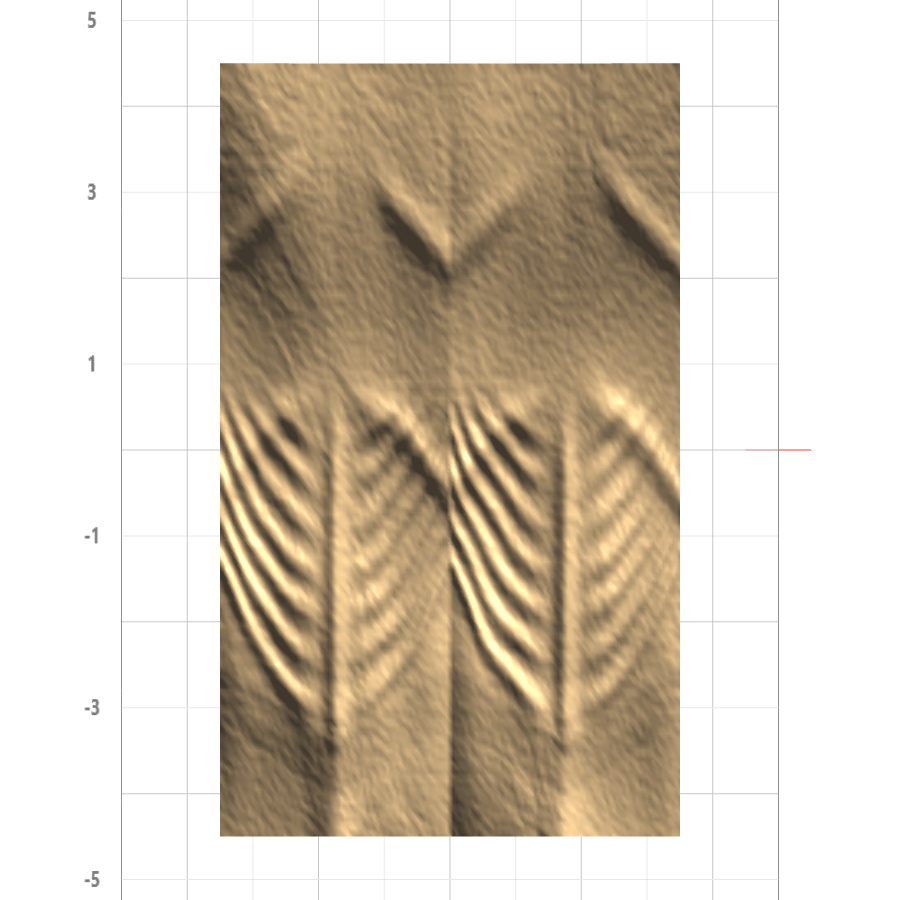
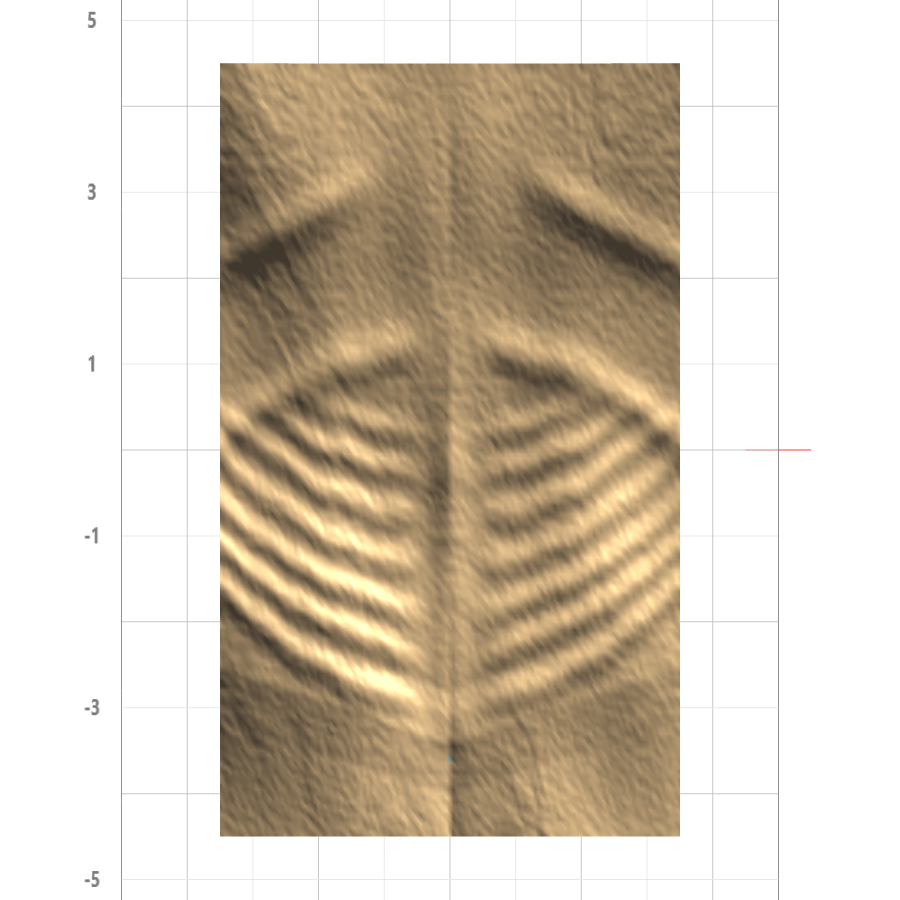
T78 item 7 AMEND: fix mirror-fold double-torso bug, reshuffle skeleton per seed
URGENT correction from Fred (via the advisor, with photo evidence of the
bug): the board's default symmetry is 'x', so terrain.js ALREADY folds the
surface coordinate before calling ANY filter's own fn() -- su arrives
pre-folded to |u-0.5|*2 (0 at the board centreline, 1 at the edge). The
shipped item-7 version re-folded that same value again (dx = |su*2-1|),
putting the sternum at su=0.5 (a fold-of-a-fold) and doubling the whole
ribcage into a mirrored pair INSIDE what was already one half of the
board -- terrain.js's own outer mirror then doubled THAT again, rendering
FOUR repeats (two sternum lines, two rib fans, two clavicle V's) instead
of one torso. Fixed by building only the half-torso terrain.js expects:
dx = su directly, no internal re-fold. Verified under the default Mirror X
symmetry: one clean, symmetric ribcage now.

Also incorporates two more rounds of Fred's own direction, live during
this fix:

1. "I want the structure to reshuffle" -- "angle of ribs, size, extent",
   then "for ribs a number of ribs too", then "clavicular same size,
   extent, angle": the skeleton was near-fully deterministic across seeds
   (only fine skin texture varied), which isn't how a filter that's meant
   to reroll should behave. New per-seed structural draws (hashInt/
   seedRandom, the same integer-bit-mixing technique craterField.js
   already uses for Moon/Mars, duplicated here) now vary: rib count
   (6-9), rib angle, rib size (spacing), rib lateral extent, ribcage start
[…]

Changed region(s): [[0.2178, 0.1556, 0.7778, 0.9333]]

diff --git a/bspline-frame-builder/b-spline-gen/html/core/noise/chest.js b/bspline-frame-builder/b-spline-gen/html/core/noise/chest.js
@@ -23,18 +23,36 @@
  * This file implements direction #3 only -- the muscle-mound version
  * (direction #1) never shipped.
  *
- * Local coordinates (same convention the old file used):
- *   dx = |su*2 - 1|  -- 0 at the sternum centreline, 1 at the torso edge
- *   dy = sv          -- 0 at the neck/top, 1 at the waist/bottom
+ * URGENT AMEND (Fred, via the advisor): the board's default symmetry is
+ * 'x' (core/state.js), which means terrain.js ALREADY folds the surface
+ * coordinate before calling ANY filter's own fn() -- `su` arrives pre-
+ * folded to `|u - 0.5| * 2`, i.e. `su` already IS "distance from the
+ * board centreline, 0..1" by the time this file ever sees it. A first
+ * version of this file re-folded that same value again (`dx = |su*2-1|`),
+ * which put the sternum at su=0.5 (a fold-of-a-fold) instead of su=0, and
+ * doubled the whole ribcage into a mirrored pair INSIDE what was already
+ * one half of the board -- terrain.js's own outer mirror then doubled
+ * THAT again, so the rendered board showed four repeats, not one torso.
+ * This file now builds only the HALF-TORSO terrain.js expects: `dx = su`
+ * directly (0 at the sternum, 1 at the flank) -- no internal fold at all.
+ * A different noiseType/board with symmetry:'none' would see this exact
+ * same half-torso un-mirrored (by design -- this file draws only ITS OWN
+ * half regardless of what the board does with it afterwards).
+ *
+ * Local coordinates:
+ *   dx = su  -- 0 at the sternum centreline, 1 at the torso edge/flank
+ *   dy = sv  -- 0 at the neck/top, 1 at the waist/bottom
  *
  * Composition (skeleton -> skin):
  *   1. Silhouette   — neck, clavicles, deltoids (structural shape only,
  *                     not muscle mass).
  *   2. Sternum ridge — a raised centreline strip, tapering to the xiphoid.
- *   3. Ribcage       — 7 curved raised bands sweeping down-and-out from
- *                      the sternum, strongest at the flanks, fading to
- *                      near-zero at the centre; intercostal grooves are
- *                      the natural gaps between adjacent bands.
+ *   3. Ribcage       — 6-9 curved raised bands (count varies per seed)
+ *                      sweeping down-and-out from the sternum, strongest
+ *                      at the flanks, fading to near-zero at the centre;
+ *                      intercostal grooves are the natural gaps between
+ *                      adjacent bands. Angle, spacing, and lateral reach
+ *                      also vary per seed (see the T78 AMEND note below).
  *   4. Costal margin — one more prominent arc (curving the OPPOSITE way
  *                      from the ribs -- upward toward the sides) marking
  *                      where the ribcage ends.
@@ -65,19 +83,28 @@ function gaussianBand(d, width) {
   return Math.exp(-(d * d) / (2 * width * width));
 }
 
-const NUM_RIBS = 7;
-const RIB_START_Y = 0.16; // just below the clavicles
-const RIB_SPACING = 0.058;
-// T78 tuning: a first attempt used RIB_BAND_WIDTH:0.028 against this same
-// spacing -- a gaussian's own visually-significant extent runs several
-// widths, so adjacent ribs' bands overlapped enough to merge into one
-// solid mound with no visible grooves at all (confirmed with a direct
-// grayscale heightmap dump, not by eyeballing a lit 3D render, which
-// hid the problem under shading). Narrowed well below half the spacing
-// so each rib reads as a separate raised band with a real intercostal
-// groove between it and its neighbors.
-const RIB_BAND_WIDTH = 0.014;
-const RIB_CURVE = 0.20; // ribs slope DOWNWARD as they sweep toward the flank
+// T78 AMEND (Fred: "I want the structure to reshuffle" -- "angle of ribs,
+// size, extent"): the skeleton was near-fully deterministic across seeds
+// (only fine skin texture varied), which is wrong for a filter that's
+// meant to reroll like every other one. `hashInt`/`seedRandom` (the same
+// integer-bit-mixing technique craterField.js already uses for Moon/Mars,
+// duplicated here rather than shared since chest.js has no natural import
+// relationship with that file) derive a few per-seed structural draws from
+// the caller's own already-seeded `noiseFine`, so the SKELETON itself
+// (not just its surface grain) now varies with the terrain's own seed:
+// rib angle (how steeply they sweep down toward the flank), rib size
+// (spacing between adjacent ribs, i.e. how "long" the ribcage reads), and
+// rib extent (how many ribs / how far down the torso the ribcage runs).
+function hashInt(x) {
+  x = Math.imul(x ^ (x >>> 16), 0x45d9f3b);
+  x = Math.imul(x ^ (x >>> 16), 0x45d9f3b);
+  x = x ^ (x >>> 16);
+  return x >>> 0;
+}
+function seedRandom(noiseFine, salt) {
+  const f = noiseFine.noise2(0.5173 + salt * 3.71, 0.7291 + salt * 5.13);
+  return hashInt(Math.floor((f * 0.5 + 0.5) * 0xffffffff) | 0) / 4294967296;
+}
 
 export const fn = (su, sv, aspect, params, noiseRefs) => {
   const { scale, octaves, roughness, warpIntensity } = params;
@@ -88,12 +115,33 @@ export const fn = (su, sv, aspect, params, noiseRefs) => {
   const ribStrength = t.ribStrength ?? 0.14;
   const skinDetail = t.skinDetail ?? 0.06;
 
-  const dx = Math.abs(su * 2 - 1); // 0 at sternum centreline, 1 at torso edge
+  // T78 AMEND (Fred: "I want the structure to reshuffle" -- rib angle/
+  // size/extent/count, then "clavicular same size, extent, angle"): per-
+  // seed structural draws, NOT tweaks (they're not user-facing controls,
+  // just what makes the skeleton itself vary with the terrain's own seed
+  // instead of only its surface texture).
+  const ribCount = 6 + Math.floor(seedRandom(noiseFine, 1) * 4); // 6..9 ribs
+  // Angle allows the OPPOSITE sign too (Fred) -- some seeds curve the ribs
+  // UP toward the flank instead of down, not just varying how steeply they
+  // slope in the one anatomically-typical direction.
+  const ribAngle = -0.22 + seedRandom(noiseFine, 2) * 0.44; // -0.22..0.22, sign varies per seed
+  const ribSize = 0.045 + seedRandom(noiseFine, 3) * 0.030; // spacing between ribs (also scales each rib's own band width)
+  const ribBandWidth = ribSize * 0.26; // stays well under half the spacing (see the T78 tuning note below) regardless of ribSize
+  const ribExtent = 0.24 + seedRandom(noiseFine, 4) * 0.26; // how far laterally ribs must reach before hitting full strength -- smaller = ribs cover MORE of the flank
+  const ribStartY = 0.14 + seedRandom(noiseFine, 5) * 0.05; // where the ribcage begins, just below the clavicles
+
+  const clavicleAngle = -0.10 + seedRandom(noiseFine, 6) * 0.20; // slope from neck to shoulder -- sign varies per seed too
+  const clavicleSize = 10.0 + seedRandom(noiseFine, 7) * 8.0; // band sharpness -- LOWER reads as a bigger/thicker clavicle
+  const clavicleExtent = 1.0 + seedRandom(noiseFine, 8) * 1.2; // lateral decay rate -- LOWER reaches further toward the shoulder
+
+  // su arrives already fold-mirrored by terrain.js (default symmetry:'x'):
+  // 0 at the board centreline, 1 at the board edge. No internal re-fold.
+  const dx = su; // 0 at sternum centreline, 1 at torso edge/flank
   const dy = sv; // 0 at neck, 1 at waist
 
   // ── 1. SILHOUETTE (structural shape, not muscle) ────────────────────
   const neck = Math.exp(-(dx * dx) * 40.0) * Math.max(0, 1.0 - dy * 7.0) * 0.30;
-  const clavicle = Math.max(0, 1.0 - Math.abs(dy - (0.12 + dx * 0.10)) * 14.0) * Math.exp(-dx * 1.5) * 0.18;
+  const clavicle = Math.max(0, 1.0 - Math.abs(dy - (0.12 + dx * clavicleAngle)) * clavicleSize) * Math.exp(-dx * clavicleExtent) * 0.18;
   const deltoid = gaussianBand(dx - 0.9, 0.18) * gaussianBand(dy - 0.22, 0.14) * 0.30;
 
   // ── 2. STERNUM RIDGE + XIPHOID ──────────────────────────────────────
@@ -109,12 +157,12 @@ export const fn = (su, sv, aspect, params, noiseRefs) => {
   // -- ribFrontFade suppresses the whole ribcage near the centreline
   // (per the reference: "fading toward the front") and the sternum ridge
   // covers that same region instead.
-  const ribFrontFade = smoothstep01(0.06, 0.38, dx);
+  const ribFrontFade = smoothstep01(0.06, ribExtent, dx);
   const ribJitter = noiseFine.noise2(su * 6.0, sv * 6.0) * 0.012; // organic irregularity, not a perfect arc
   let ribcage = 0;
-  for (let k = 0; k < NUM_RIBS; k++) {
-    const ribY = RIB_START_Y + k * RIB_SPACING + RIB_CURVE * dx * dx + ribJitter;
-    ribcage += gaussianBand(dy - ribY, RIB_BAND_WIDTH);
+  for (let k = 0; k < ribCount; k++) {
+    const ribY = ribStartY + k * ribSize + ribAngle * dx * dx + ribJitter;
+    ribcage += gaussianBand(dy - ribY, ribBandWidth);
   }
   // Ribs fade out again near the very bottom of the ribcage span (the
   // costal margin below takes over there instead of another plain rib).
@@ -125,7 +173,7 @@ export const fn = (su, sv, aspect, params, noiseRefs) => {
   // One more prominent band curving the OPPOSITE way from the ribs above
   // it (upward toward the flanks), marking the classic inverted-V where
   // the ribcage ends and the abdomen begins.
-  const marginBaseY = RIB_START_Y + NUM_RIBS * RIB_SPACING;
+  const marginBaseY = ribStartY + ribCount * ribSize;
   const marginY = marginBaseY - 0.12 * dx * dx + ribJitter;
   const costalMargin = gaussianBand(dy - marginY, 0.020) * ribFrontFade * ribStrength * 1.25;
 

diff --git a/tests/noise-chest.test.js b/tests/noise-chest.test.js
@@ -27,6 +27,44 @@ function sample(seed, n, tweaks = {}) {
   return grid;
 }
 
+function sampleFlat(seed, n, tweaks = {}, extra = {}) {
+  const noiseFine = new PerlinNoise(seed);
+  const noiseWarp = new PerlinNoise(seed ^ 0x9e3779b9);
+  const noiseRefs = { noiseFine, noiseWarp };
+  const params = { ...PARAMS, ...extra, tweaks };
+  const values = [];
+  for (let j = 0; j < n; j++) for (let i = 0; i < n; i++) values.push(chest.fn(i / (n - 1), j / (n - 1), ASPECT, params, noiseRefs));
+  return values;
+}
+
+describe('chest.js: T78 GUARD (Fred: "this is still a noise filter, right?") -- a real filter, not a fixed stamp', () => {
+  it('two different seeds give visibly different detail at the same layout (skin texture + per-seed rib angle/count/spacing)', () => {
+    expect(sampleFlat(1, 40)).not.toEqual(sampleFlat(2, 40));
+  });
+
+  it('a fixed seed is fully deterministic', () => {
+    expect(sampleFlat(42, 40)).toEqual(sampleFlat(42, 40));
+  });
+
+  it('changing scale changes the result (affects the pore-texture and skin-drape frequencies)', () => {
+    const a = sampleFlat(42, 40, {}, { scale: 2.0 });
+    const b = sampleFlat(42, 40, {}, { scale: 6.0 });
+    expect(a).not.toEqual(b);
+  });
+
+  it('changing warpIntensity changes the result (affects the skin-drape warp)', () => {
+    const a = sampleFlat(42, 40, {}, { warpIntensity: 0.2 });
+    const b = sampleFlat(42, 40, {}, { warpIntensity: 2.0 });
+    expect(a).not.toEqual(b);
+  });
+
+  it('changing roughness changes the result (affects the pore-texture and skin-drape FBM gain)', () => {
+    const a = sampleFlat(42, 40, {}, { roughness: 0.2 });
+    const b = sampleFlat(42, 40, {}, { roughness: 0.8 });
+    expect(a).not.toEqual(b);
+  });
+});
+
 describe('chest.js: item 7 -- tweak keys kept (meaning changed), new skinDetail key added', () => {
   it('still declares exactly the 3 original keys plus the new skinDetail key', () => {
     const keys = chest.tweaks.map((t) => t.key).sort();
@@ -67,26 +105,28 @@ describe('chest.js: item 7 -- a visible ribcage (distinct separated bands, not o
     expect(peaks).toBeGreaterThanOrEqual(4);
   });
 
-  it('ribStrength is the MAIN control now -- doubling it roughly doubles the relief WITHIN the ribcage/flank span (isolated from abdomen/iliac terms that don\'t scale with it)', () => {
-    // A vertical scan down the flank (su=0.78), restricted to the
-    // ribcage's own dy span -- the same region+column the "distinct
-    // bands" test above already scans, so this measures ribStrength's
-    // OWN effect directly rather than diluting it in the whole-grid range
-    // (which mixes in abdomen/iliac/soft-tissue terms that don't scale
-    // with ribStrength at all).
-    function ribSpanRange(ribStrength) {
-      const noiseFine = new PerlinNoise(42); const noiseWarp = new PerlinNoise(42 ^ 0x9e3779b9);
-      const N = 200;
-      const vals = [];
-      for (let j = 0; j < N; j++) {
-        const sv = 0.14 + (j / (N - 1)) * (0.56 - 0.14);
-        vals.push(chest.fn(0.78, sv, ASPECT, { ...PARAMS, tweaks: { ribStrength } }, { noiseFine, noiseWarp }));
-      }
-      return Math.max(...vals) - Math.min(...vals);
+  it('ribStrength is the MAIN control now -- a pointwise DIFFERENCE between two ribStrength values shows real, non-zero variation', () => {
+    // Rather than comparing whole-window ranges (which mixes in deltoid/
+    // soft-tissue/abdomen terms that DON'T scale with ribStrength and can
+    // dominate the measurement once the ribcage's own span moves around
+    // per seed -- see the T78 AMEND note on the per-seed structural
+    // draws), take the pointwise DIFFERENCE fn(high) - fn(low) at the same
+    // (su,sv): every term that doesn't depend on ribStrength cancels out
+    // exactly, leaving only the ribcage/costal-margin/iliac-crest
+    // contribution's own scaled delta -- a precise, seed-shape-independent
+    // isolation of ribStrength's real effect.
+    const noiseFineLow = new PerlinNoise(42); const noiseWarpLow = new PerlinNoise(42 ^ 0x9e3779b9);
+    const noiseFineHigh = new PerlinNoise(42); const noiseWarpHigh = new PerlinNoise(42 ^ 0x9e3779b9);
+    const N = 300;
+    const diffs = [];
+    for (let j = 0; j < N; j++) {
+      const sv = 0.08 + (j / (N - 1)) * (0.75 - 0.08);
+      const low = chest.fn(0.78, sv, ASPECT, { ...PARAMS, tweaks: { ribStrength: 0.07 } }, { noiseFine: noiseFineLow, noiseWarp: noiseWarpLow });
+      const high = chest.fn(0.78, sv, ASPECT, { ...PARAMS, tweaks: { ribStrength: 0.14 } }, { noiseFine: noiseFineHigh, noiseWarp: noiseWarpHigh });
+      diffs.push(high - low);
     }
-    const low = ribSpanRange(0.07);
-    const high = ribSpanRange(0.14);
-    expect(high).toBeGreaterThan(low * 1.4);
+    const range = Math.max(...diffs) - Math.min(...diffs);
+    expect(range).toBeGreaterThan(0.03);
   });
 });
 
